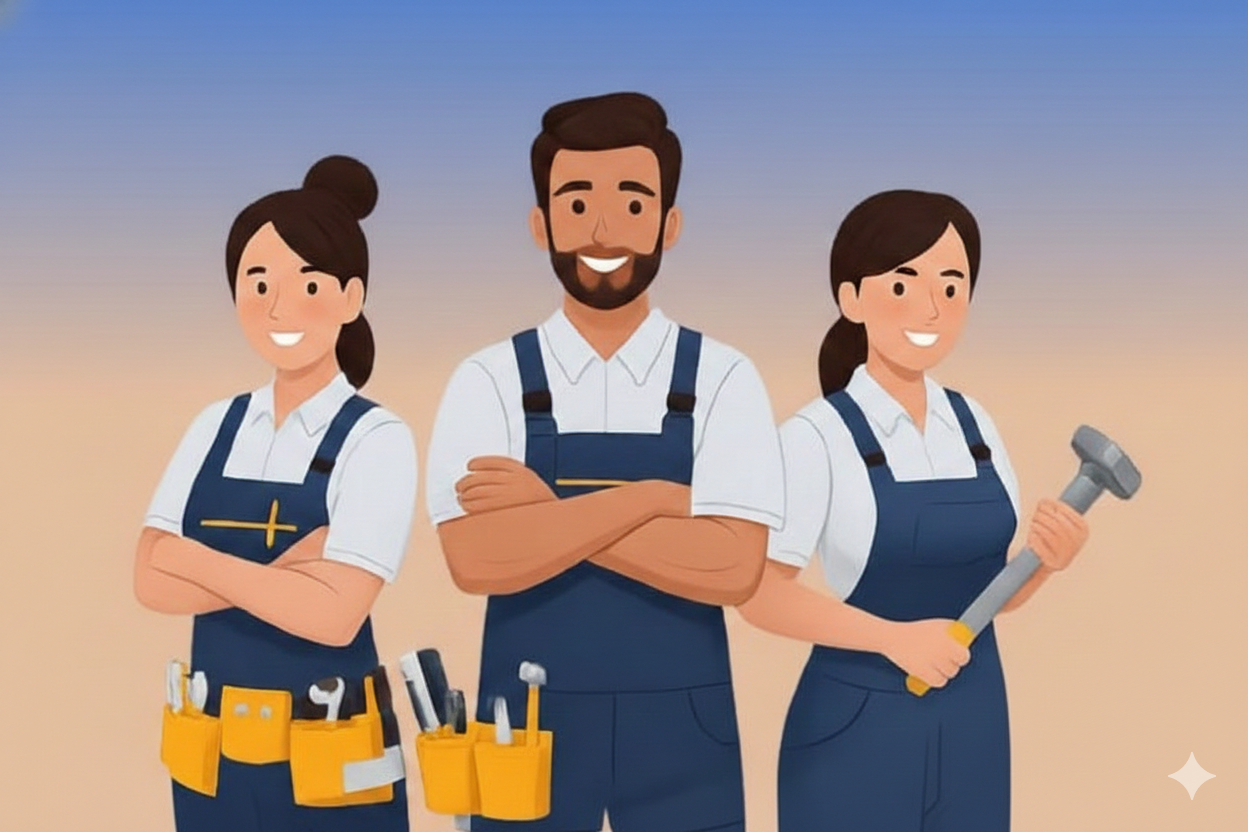
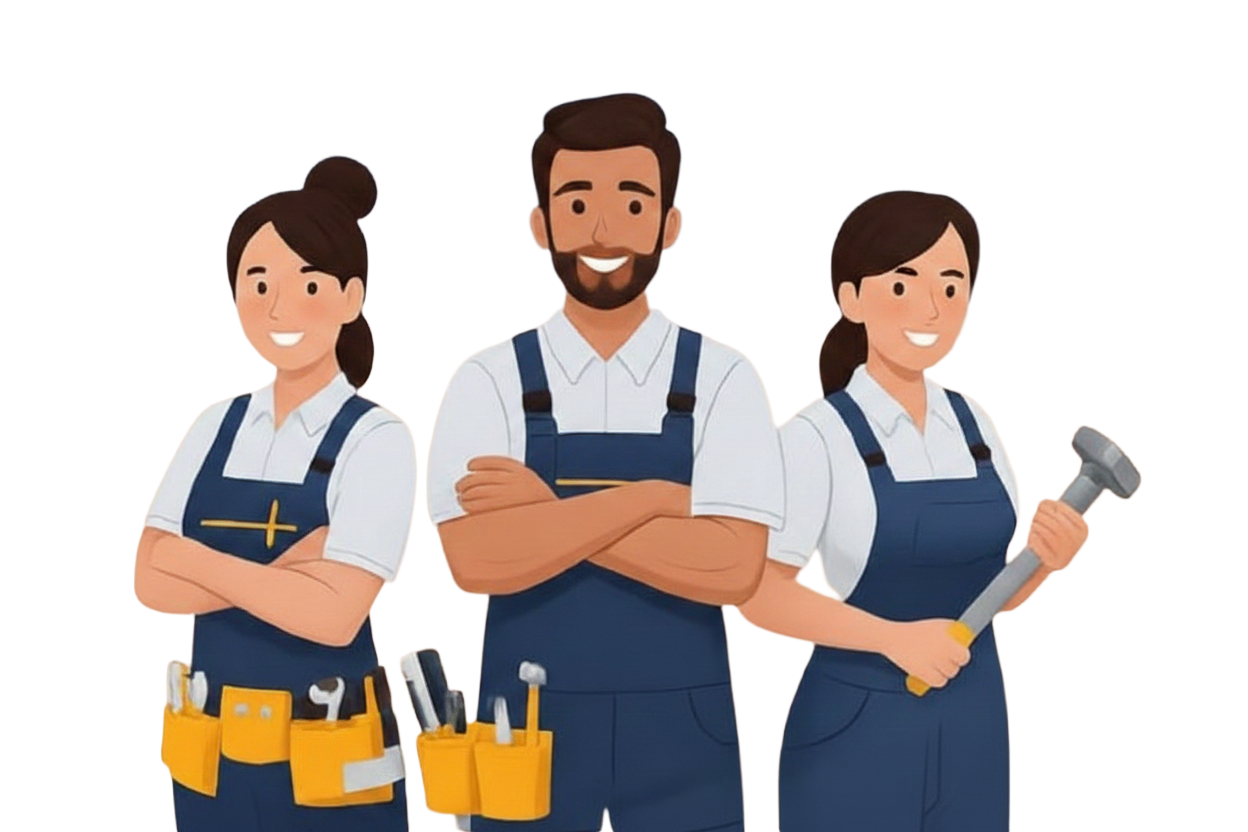
imgchanges

diff --git a/frontend/lib/main.dart b/frontend/lib/main.dart
@@ -42,14 +42,14 @@ class _LoginScreenState extends State<LoginScreen> {
                 ClipPath(
                   clipper: HeaderClipper(),
                   child: Container(
-                    height: 380,
+                    height: 350,
                     decoration: const BoxDecoration(
                       gradient: LinearGradient(
                         begin: Alignment.topCenter,
                         end: Alignment.bottomCenter,
                         colors: [
-                          Color(0xFF4A89F3), // Bright blue
-                          Color(0xFFE8B391), // Peachy tan
+                          Color(0xFF4A89F3), 
+                          Color(0xFFE8B391), 
                         ],
                       ),
                     ),
@@ -57,9 +57,9 @@ class _LoginScreenState extends State<LoginScreen> {
                       child: Padding(
                         padding: const EdgeInsets.only(bottom: 40),
                         child: Image.asset(
-                          'assets/images/header_image.png', // Ensure this image has no background
+                          'assets/images/header_image.png', 
                           fit: BoxFit.contain,
-                          height: 250,
+                          height: 650,
                         ),
                       ),
                     ),